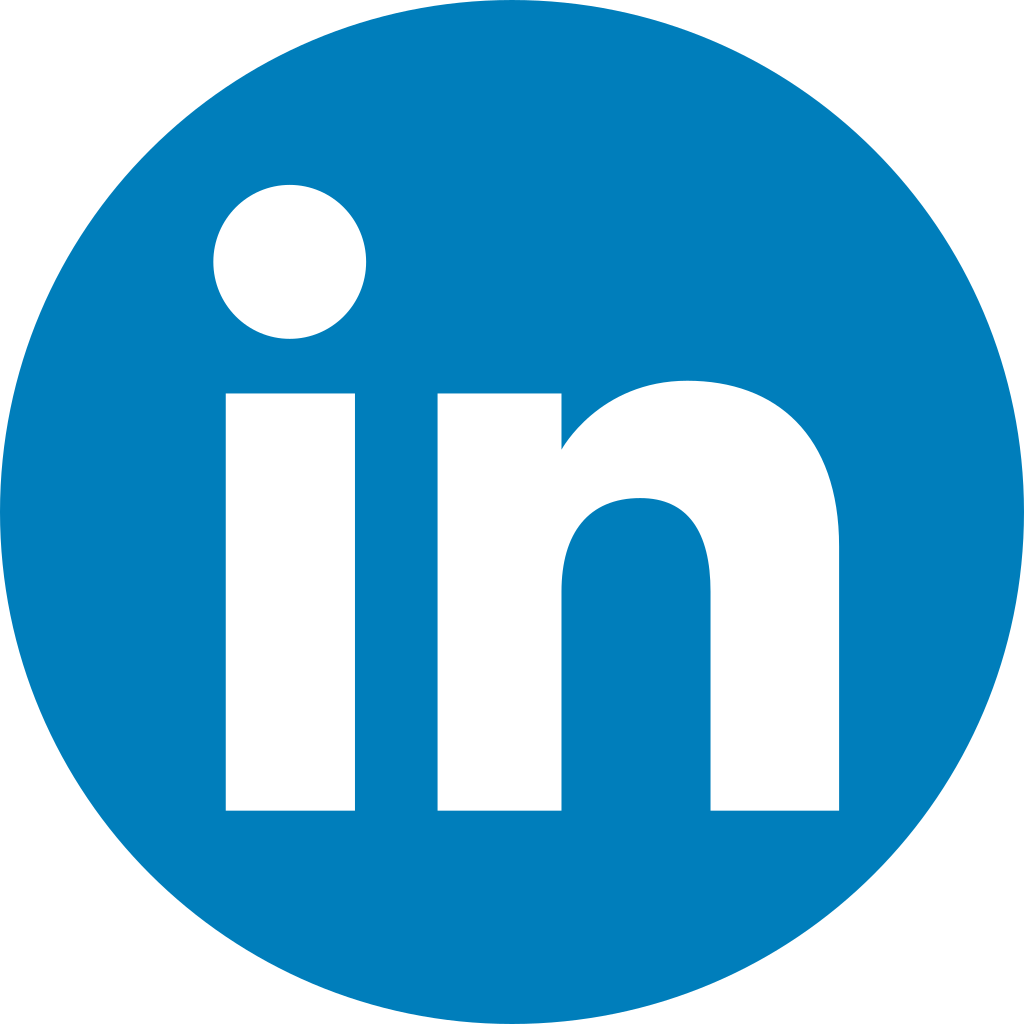
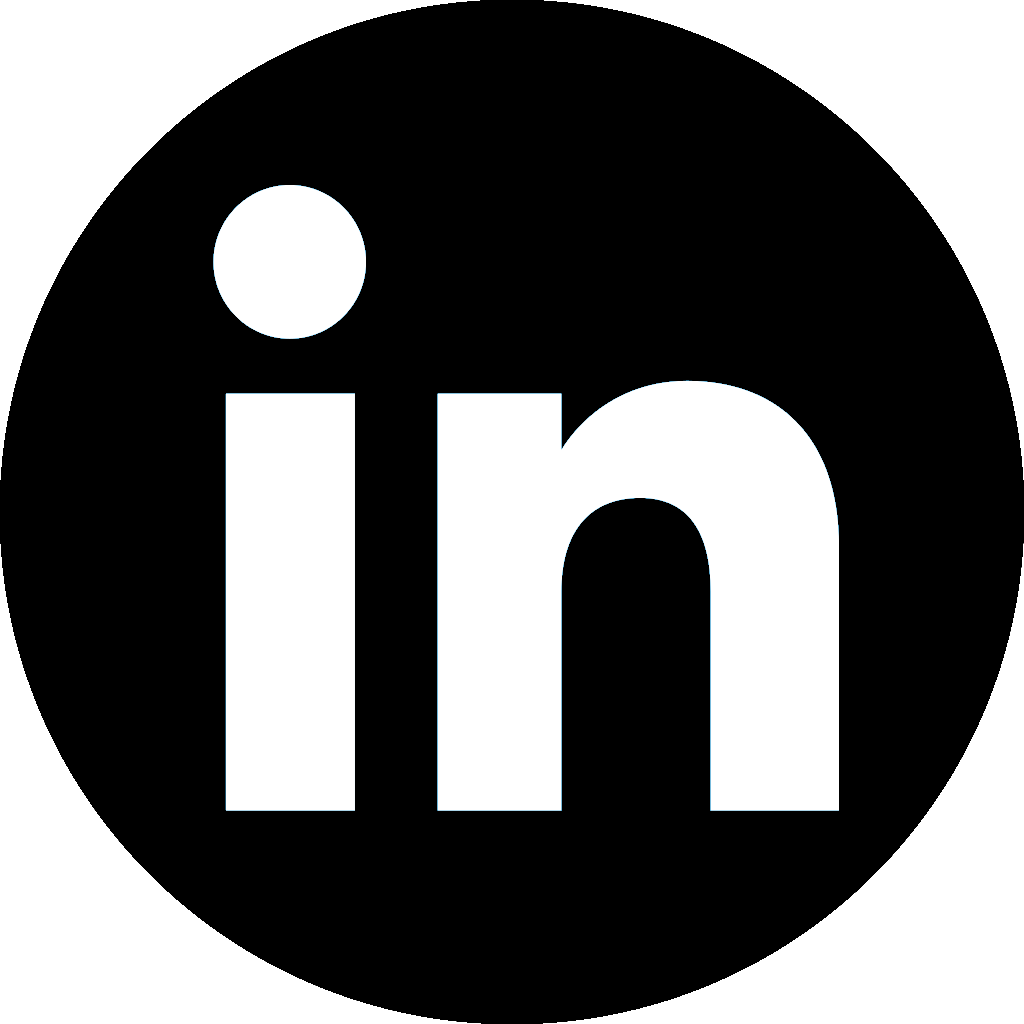
added socials

diff --git a/index.html b/index.html
@@ -12,19 +12,25 @@
 <body>
     <div class="headercontainer">
         <header>
-            <div class="logo"><span class="bold">Leane Che</span> Computer Science Student</div>
+            <div class="logo"><span class="bold">Leane Che </span> Computer Science Student</div>
             <nav>
                 <a href="#" class="button"> Home</a>
                 <a href="#" class="button"> About</a>
-                <a href="#" class="button"> Resume</a>
                 <a href="#" class="button"> Projects</a>
+                <a href="#" class="button"> Resume</a>
+                <a href="https://github.com/leaane" class="button">
+                    <img src="Github Icon.png" alt="Github Profile">
+                </a>
+                <a href="https://www.linkedin.com/in/leane-che" class="button">
+                    <img src="LinkedIn Icon.png" alt="LinkedIn Profile">
+                </a>
             </nav>
         </header>
     </div>
 
     <main>
         <div class="herobox1">
-            <h1>Hi I'm Leane :D</h1>
+            <h1>Hi I'm Leane :3</h1>
             <p>Lorem ipsum dolor sit amet, consectetur adipiscing elit, sed do eiusmod tempor incididunt ut labore et dolore magna aliqua. </p>
             <p>Lorem ipsum dolor sit amet, consectetur adipiscing elit, sed do eiusmod tempor incididunt ut labore et dolore magna aliqua. </p>
         </div>

diff --git a/style.css b/style.css
@@ -22,11 +22,8 @@ header {
 
 .logo {
     font-size: larger;
-}
-
-.logo img {
-    width: 40px;
-    height: auto;
+    display: flex;
+    align-items: center;
 }
 
 a {
@@ -34,35 +31,48 @@ a {
     text-decoration: none;
 }
 
+a img {
+    width: 30px;
+    height: auto;
+    margin-right: 5px;
+}
+
 .bold {
     font-size: larger;
     font-weight: 700;
+    margin-right: 20px;
 }
 
 .button { 
-    padding: 10px 25px;  
-    border-style: solid;
-    border-width: 1px;
-    margin-left: 20px;
+    padding: 5px 5px;  
 }
+
+nav {
+    display: flex;
+    align-items: center;
+}
+
+nav a {
+    padding: 5px 10px; 
+    display: flex;
+    align-items: center;
+}
+
+
 
 
 
 
 
 main {
+    padding-left: 25px;
     min-height: 300px;
     display: flex;
     align-items: center;
 }
 
-.main2 {
-    min-height: 300px;
-    padding-top: 50px;
-}
-
 .cards {
-    padding-left: 100px;
+    padding-left: 50px;
     display: flex;
     justify-content: space-between;
     text-align: center;
